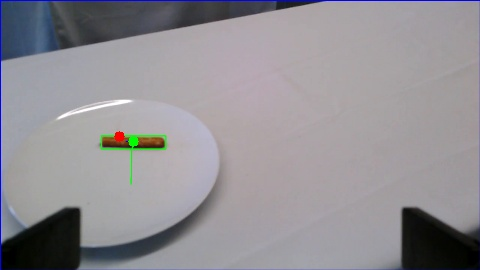
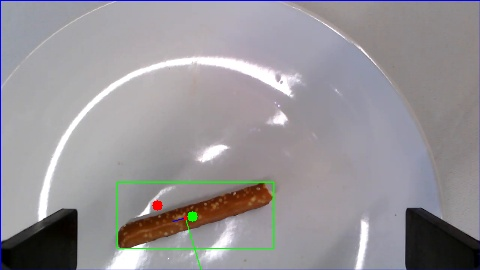
fixes offsets

diff --git a/depth_capture/pretzels.py b/depth_capture/pretzels.py
@@ -327,7 +327,7 @@ class ImageProcessor:
         # Wait for the transformation to be available
         self.listener.waitForTransform("/base_link", "/camera_link", rospy.Time(0), rospy.Duration(4.0))
 
-        offset = np.array([0.00, 56.39, 0.00]) / 1000
+        offset = np.array([0.00, 66.00, 0.00]) / 1000
         world_coords[0] += offset[0]
         world_coords[1] += offset[1]
         world_coords[2] += offset[2]
